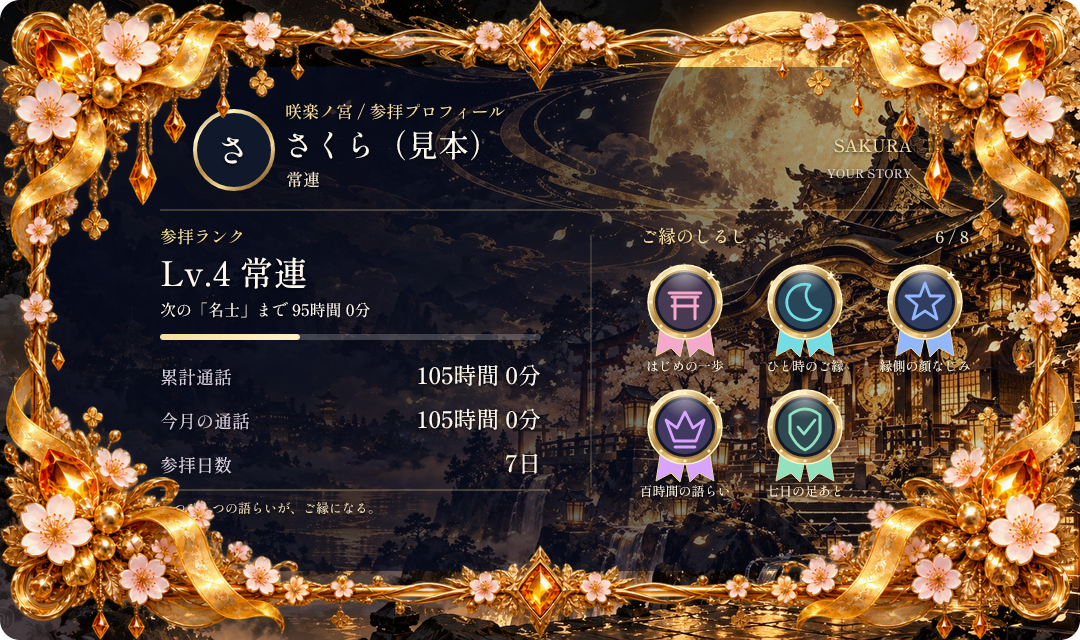
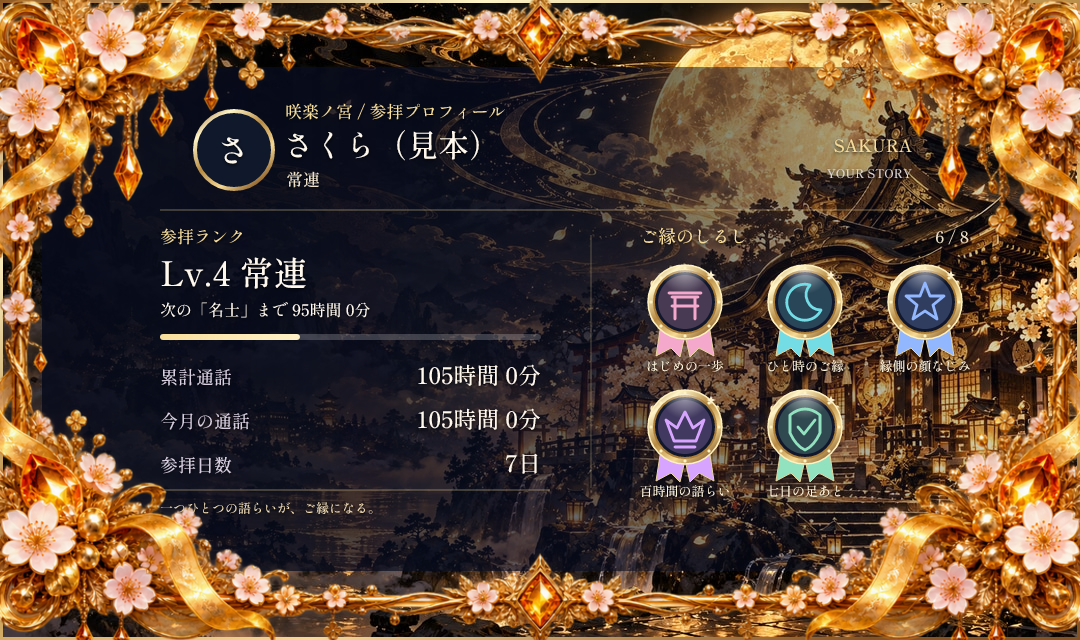
参拝フレームの余白をなくして画像の四辺へ合わせる

diff --git a/src/services/visitCard.ts b/src/services/visitCard.ts
@@ -18,7 +18,7 @@ const ART_FILES: Record<string, string> = {
 };
 const embedded = new Map<string, string>();
 /** ファイルは固定カタログだけ。画像の中に外部URLを残さず、オフラインで描画する。 */
-function art(id: string): string {
+function art(id: string, edge = false): string {
   const file = ART_FILES[id];
   if (!file) return '';
   let uri = embedded.get(file);
@@ -27,7 +27,7 @@ function art(id: string): string {
       readFileSync(new URL('../../assets/visit/' + file, import.meta.url)).toString('base64');
     embedded.set(file, uri);
   }
-  return '<image href="' + uri + '" width="1080" height="640"/>';
+  return '<image href="' + uri + '"' + (edge ? ' x="-20" y="-16" width="1120" height="672"' : ' width="1080" height="640"') + '/>';
 }
 const stars = (x: number, y: number, size: number, color: string) =>
   '<path d="M' + x + ' ' + (y-size) + 'L' + (x+size*.24) + ' ' + (y-size*.24) + 'L' +
@@ -81,7 +81,7 @@ export function visitCardSvg(data: VisitData, options: {
     '<linearGradient id="accent"><stop stop-color="' + accent + '"/><stop offset="1" stop-color="#fff1c7"/></linearGradient>' +
     '<radialGradient id="medalShine" cy="0"><stop stop-color="#fff" stop-opacity=".8"/><stop offset="1" stop-color="#fff" stop-opacity="0"/></radialGradient>' +
     '<filter id="textShadow" x="-.2" y="-.5" width="1.4" height="2"><feDropShadow dx="0" dy="1" stdDeviation="2" flood-color="#000" flood-opacity=".95"/></filter>' +
-    '<clipPath id="avatar"><circle cx="234" cy="150" r="33"/></clipPath><clipPath id="card"><rect width="1080" height="640" rx="20"/></clipPath></defs><g clip-path="url(#card)">' +
+    '<clipPath id="avatar"><circle cx="234" cy="150" r="33"/></clipPath><clipPath id="card"><rect width="1080" height="640"/></clipPath></defs><g clip-path="url(#card)">' +
     art(bg.id) + '<rect x="42" y="67" width="996" height="504" rx="28" fill="url(#veil)"/>' +
     '<path d="M160 210H969M160 490H550" stroke="' + accent + '" stroke-opacity=".45"/>' +
     '<circle cx="234" cy="150" r="39" fill="#10182b" stroke="url(#metal)" stroke-width="4"/>';
@@ -116,7 +116,9 @@ export function visitCardSvg(data: VisitData, options: {
   }
   svg += text(160,513,options.preview ? '着せ替えの見本 · 保存前のプレビュー' : '一つひとつの語らいが、ご縁になる。',13,'#f6e2b9');
   // 最前面は独立した透過フレーム。背景を替えてもこの装飾は保つ。
-  svg += frame.id === 'plain' ? '<rect x="18" y="18" width="1044" height="604" rx="18" fill="none" stroke="url(#metal)" stroke-width="3"/>' : art(frame.id);
+  // 外周の縁を四辺へ接続し、装飾を少し外まで描いて外側の余白を出さない。
+  svg += '<rect x="0" y="0" width="1080" height="640" fill="none" stroke="url(#metal)" stroke-width="6"/>';
+  if (frame.id !== 'plain') svg += art(frame.id, true);
   return svg + '</g></svg>';
 }
 export function renderVisitCard(data: VisitData, options: Parameters<typeof visitCardSvg>[1] = {}): Buffer {

diff --git a/src/changelog.ts b/src/changelog.ts
@@ -19,6 +19,7 @@ export type ChangelogEntry = {
 };
 
 export const CHANGELOG: ChangelogEntry[] = [
+  { id: '2026-10-25-visit-profile-edge', date: '2026-10-25', kind: 'improve', where: ['Discord', '社務所Web'], title: 'プロフィールのフレームを画像の端へ', items: ['四辺へフレームを接続し、外側の余白をなくしました。文字やバッジの位置は保ち、細縁も画像の端に合わせます。'] },
   { id: '2026-10-25-visit-profile-art', date: '2026-10-25', kind: 'improve', where: ['Discord', '社務所Web'], title: '参拝カードを描き込んだ背景と宝石の装飾に', items: ['背景5種を和風ファンタジーのイラストへ、4種のフレームを宝石・金属細工・光のある透過装飾へ変更しました。背景とフレームは別々に付け替えられます。', '実績バッジはそれぞれ意匠の違う勲章に。数字の読みやすさと公開設定は維持し、Discord・Web・ダウンロードのカードに同じ見た目を使います。'] },
   { id: '2026-10-25-visit-profile', date: '2026-10-25', kind: 'new', where: ['Discord', '社務所Web'], title: '参拝ランク・実績バッジとプロフィール着せ替え', items: ['対象の通話で参拝ランクが育ち、実績バッジや限定フレームが開きます。銭や既存の役職とは別の記録です。', ' /参拝プロフィール でカードを表示。SHOPから背景・フレームのお店へ入り、Webで試着・購入・付け替えができます。ランクは購入できません。', '活動記録ははじめは非公開。本人がWebで公開設定・称号・飾るバッジ（5個まで）を選べます。'] },
   { id: '2026-10-25-market-web', date: '2026-10-25', kind: 'new', where: ['Discord', '社務所Web'], title: '市場の個人取引をWebから', items: ['市場のパネルからWebを開き、出品・購入・価格の相談・募集と応募・取引管理ができます。Discordと同じ銭と取引を使います。', '相談と納品はDiscordの取引スレッドへ。Webで受け取り確認・予定の登録・問題の報告・評価ができます。二重操作を防ぎ、現在の閲覧権限や開業・年齢条件も確認します。'] },

diff --git a/test/visitProfile.test.ts b/test/visitProfile.test.ts
@@ -95,6 +95,13 @@ describe('購入・装備・公開',()=>{
   for(const png of [original,bg,frame])expect(Math.ceil(png.length/3)*4).toBeLessThan(4194304);
   expect(visitCardSvg(d,{background:'../../unknown',frame:'../../unknown'})).not.toContain('https://');
  });
+ it('細縁は上下左右の画像端に接し、外周へ透明な余白を残さない',async()=>{
+  const png=renderVisitCard(await visitData(db,A,now),{privateView:true,background:'moon',frame:'plain'});
+  for(const [left,top] of [[540,0],[540,639],[0,320],[1079,320]]){
+   const pixel=await sharp(png).ensureAlpha().extract({left:left!,top:top!,width:1,height:1}).raw().toBuffer();
+   expect(pixel[3]).toBe(255);expect(pixel[0]).toBeGreaterThan(pixel[1]!);expect(pixel[1]).toBeGreaterThan(pixel[2]!);
+  }
+ });
  it('実配布する4フレームは透過PNGで、中央を覆わない',async()=>{
   for(const id of ['petal','crescent','gold','century']){
    const path=fileURLToPath(new URL('../assets/visit/frame-'+id+'.png',import.meta.url));

diff --git a/docs/work-notes.md b/docs/work-notes.md
@@ -738,3 +738,9 @@
 - 最終検証：全177ファイル2,051テスト成功（357.52秒、4並列）、型チェック・ビルド成功、関連40件成功。ログ/tmp/visit-premium-{all-tests,typecheck-final,build-final,related}.log。テスト削除/skipなし。最終コードの生成で25組を確認し、PNG最大約1.74MB、透過フレーム中央は透明。
 - 完成した青紫のカードを会話へ提示済み。見本docs/previews/visit-moon-premium.png、全25組docs/previews/visit-collection.jpg。初版の静的見本ではなく、実際のrenderVisitCardで合成。担当Claude向け既存PR #88へ保存する。最新本番96c78fd、本番未操作・未反映。
 - GitHub保存完了：PR #88のまま更新、描画/素材5022fa6。OPEN・未合流・mergeable、本番未反映。全2,051件・型・ビルド成功、関連40件・25組の描画/容量/透過/ブラウザ確認済み。完成見本 https://raw.githubusercontent.com/manakikido-jpg/evaluation/5022fa6/docs/previews/visit-moon-premium.png 、一覧 https://raw.githubusercontent.com/manakikido-jpg/evaluation/5022fa6/docs/previews/visit-collection.jpg 。PR説明も最終の見た目・検証・見本へ更新。この追記は所在のみでソース変更なし。
+
+## 2026年10月25日：フレームを画像の端へ付ける
+- 依頼：フレームをカードの端にくっつけたい。
+- 開始：codex/visit-profile 46a5e6f、PR #88はOPEN。最新本番85cade4は市場のコマンド/出品者ページの追加で、今回の描画とは別。
+- 方針：フレームの描画を四辺へ広げて外側余白をなくし、細縁も画像端に合わせる。背景と文字・バッジは動かさず、実合成で収まりを検品する。価格・所持・公開設定は変更しない。
+- 次：描画位置と端の処理を調整、全組合せ/PNG容量/型/全件検証、完成サンプルと既存PRを更新。本番操作なし。
